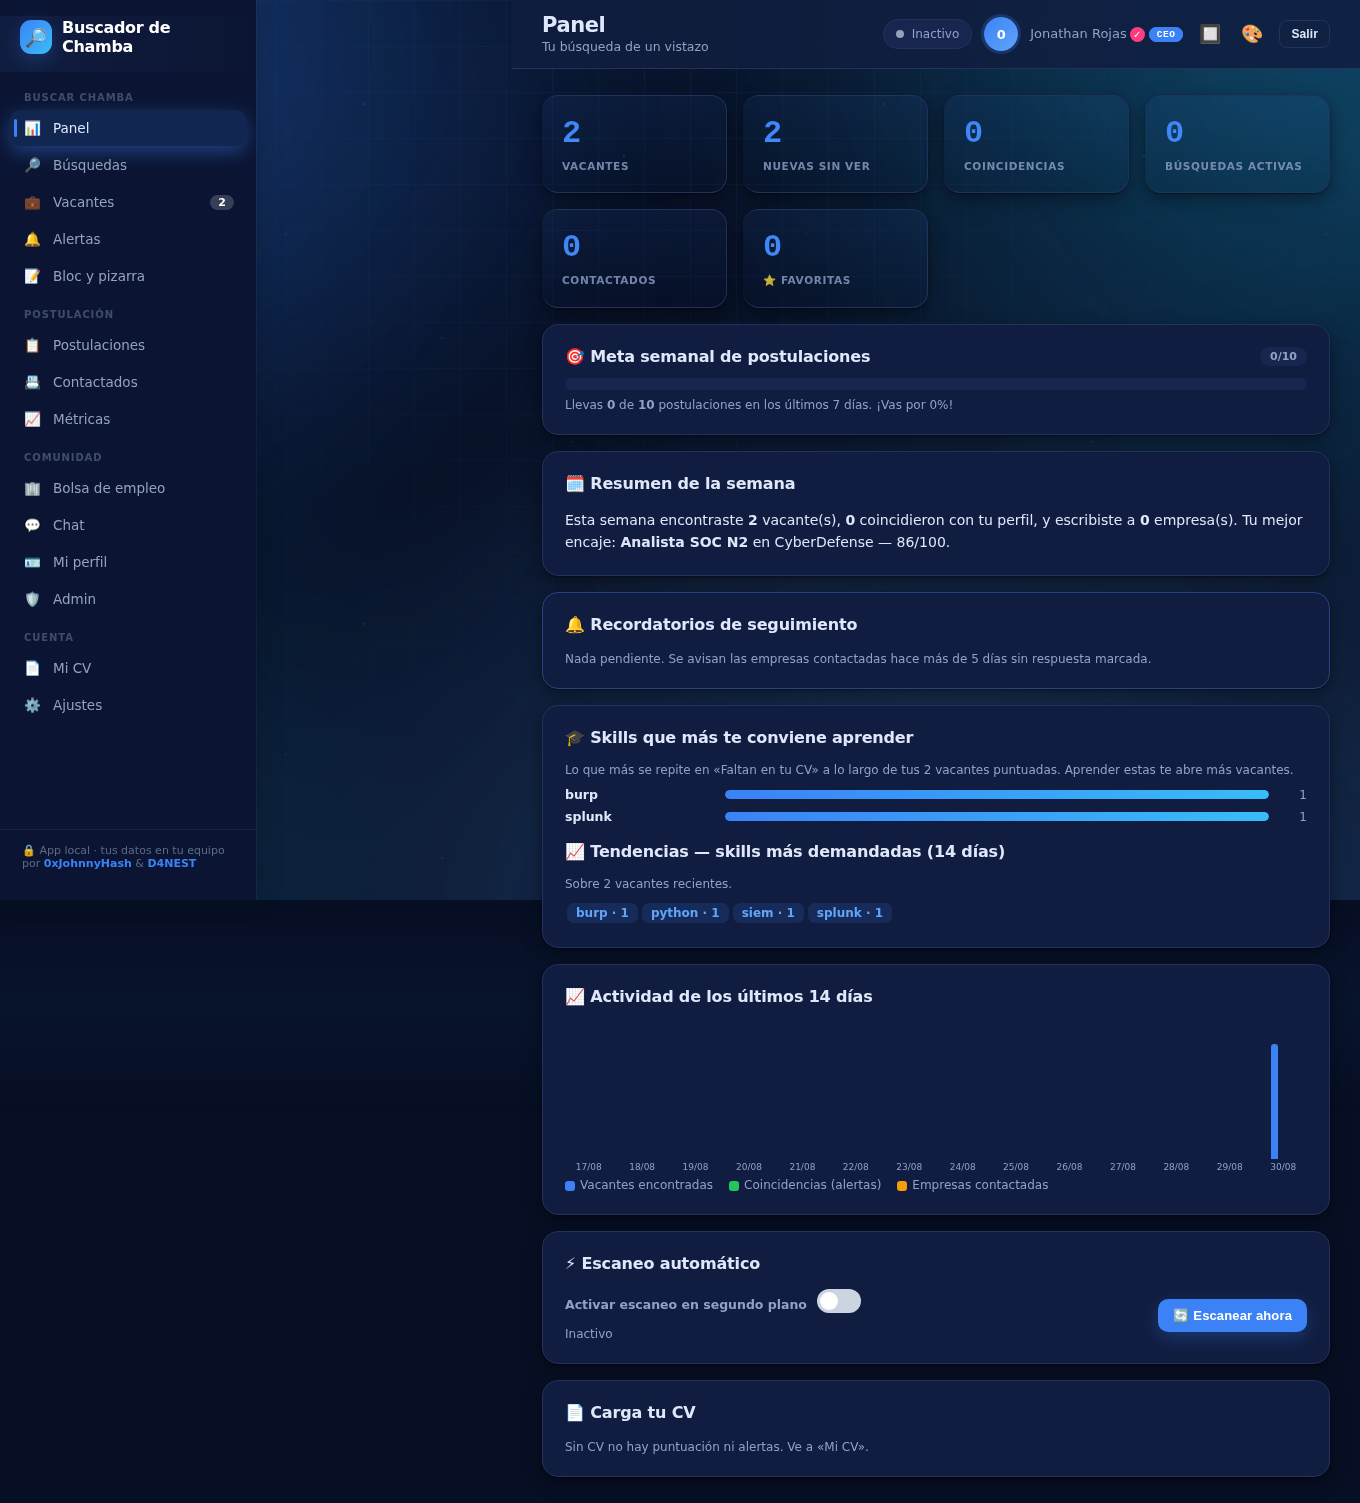
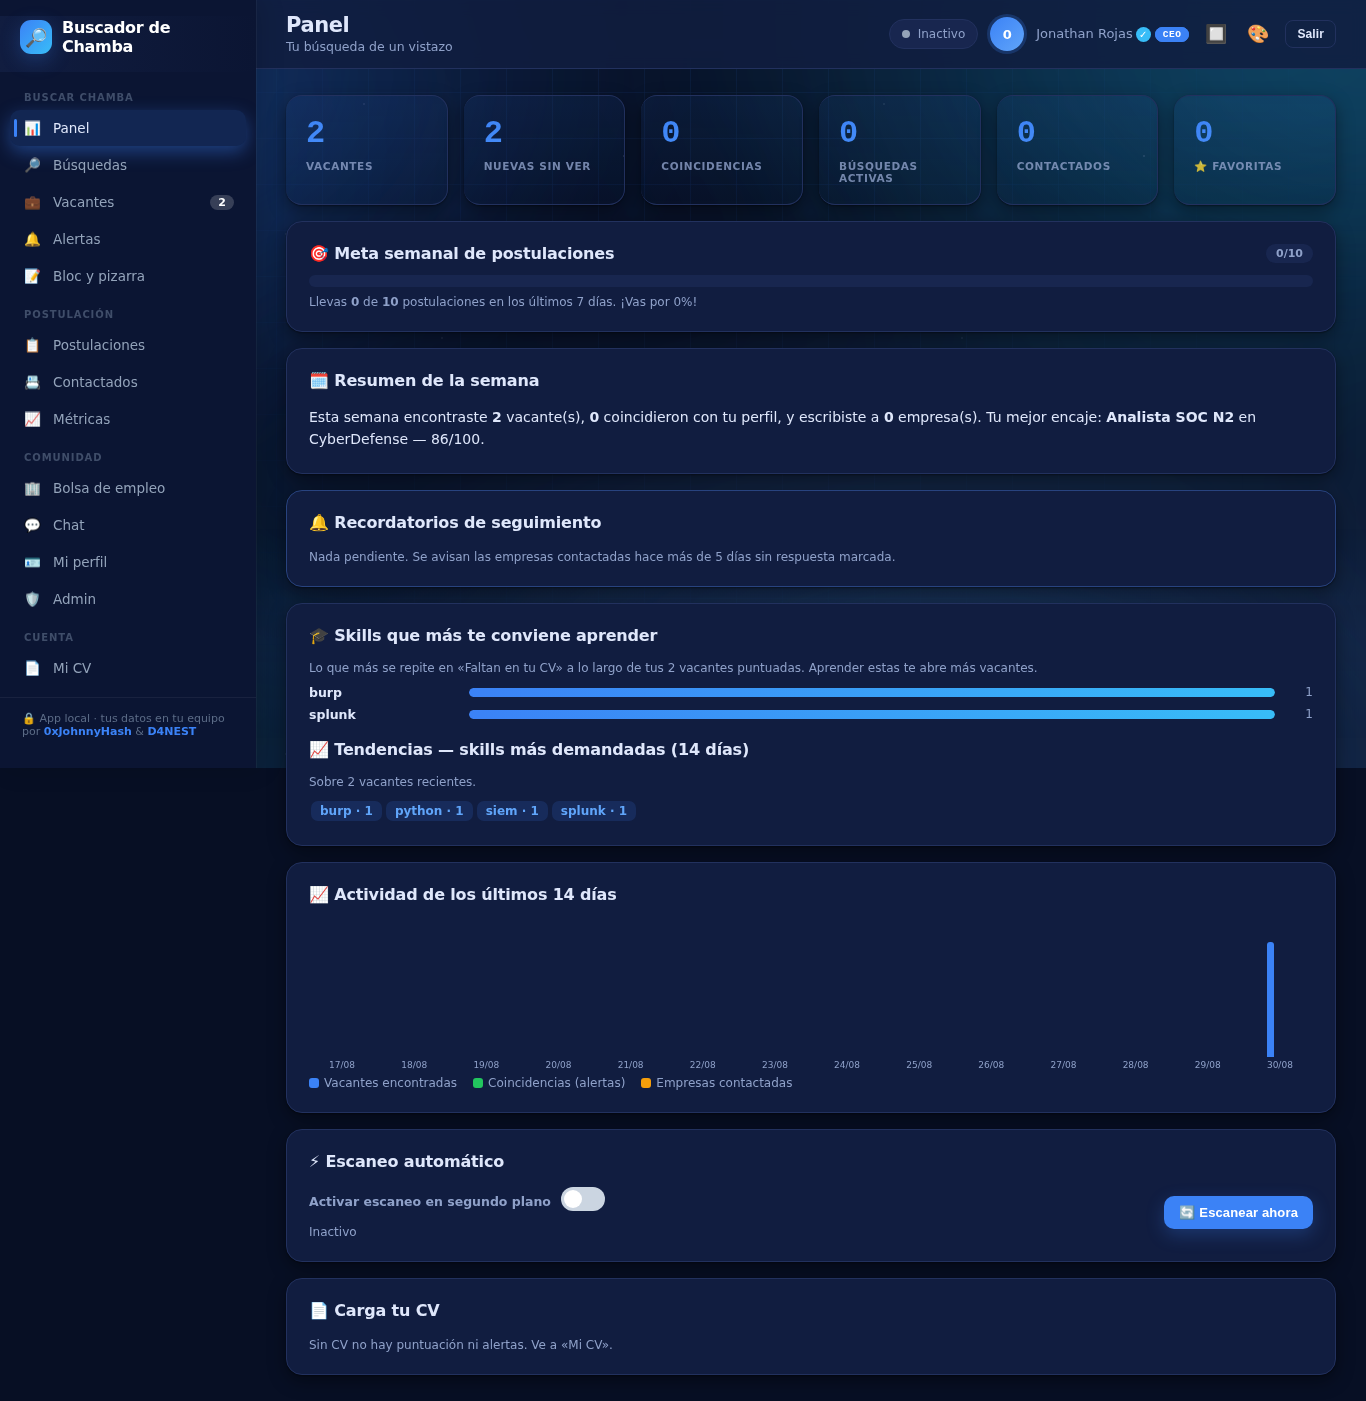
Nueva Actualización

diff --git a/templates/index.html b/templates/index.html
@@ -580,8 +580,9 @@ body{position:relative;isolation:isolate}
 #fx-scan{opacity:.05;background:linear-gradient(180deg,transparent,color-mix(in srgb,var(--primary) 90%,transparent),transparent);
   height:220px;top:-220px;animation:scanmove 7s linear infinite}
 @keyframes scanmove{from{transform:translateY(0)}to{transform:translateY(calc(100vh + 220px))}}
-/* La barra lateral y las tarjetas van sobre el fondo (surface sólido) */
-.sidebar,.card,.topbar{position:relative}
+/* Las tarjetas y la barra superior van sobre el fondo animado.
+   OJO: NO tocar la posición de .sidebar (debe seguir fixed). */
+.card,.topbar{position:relative}
 body.compact #fx-galaxy::before,body.compact #fx-galaxy::after,body.compact #fx-scan{animation:none}
 @media (prefers-reduced-motion: reduce){ #fx-galaxy::before,#fx-galaxy::after,#fx-scan,#fx-galaxy .stars{animation:none}}
 
